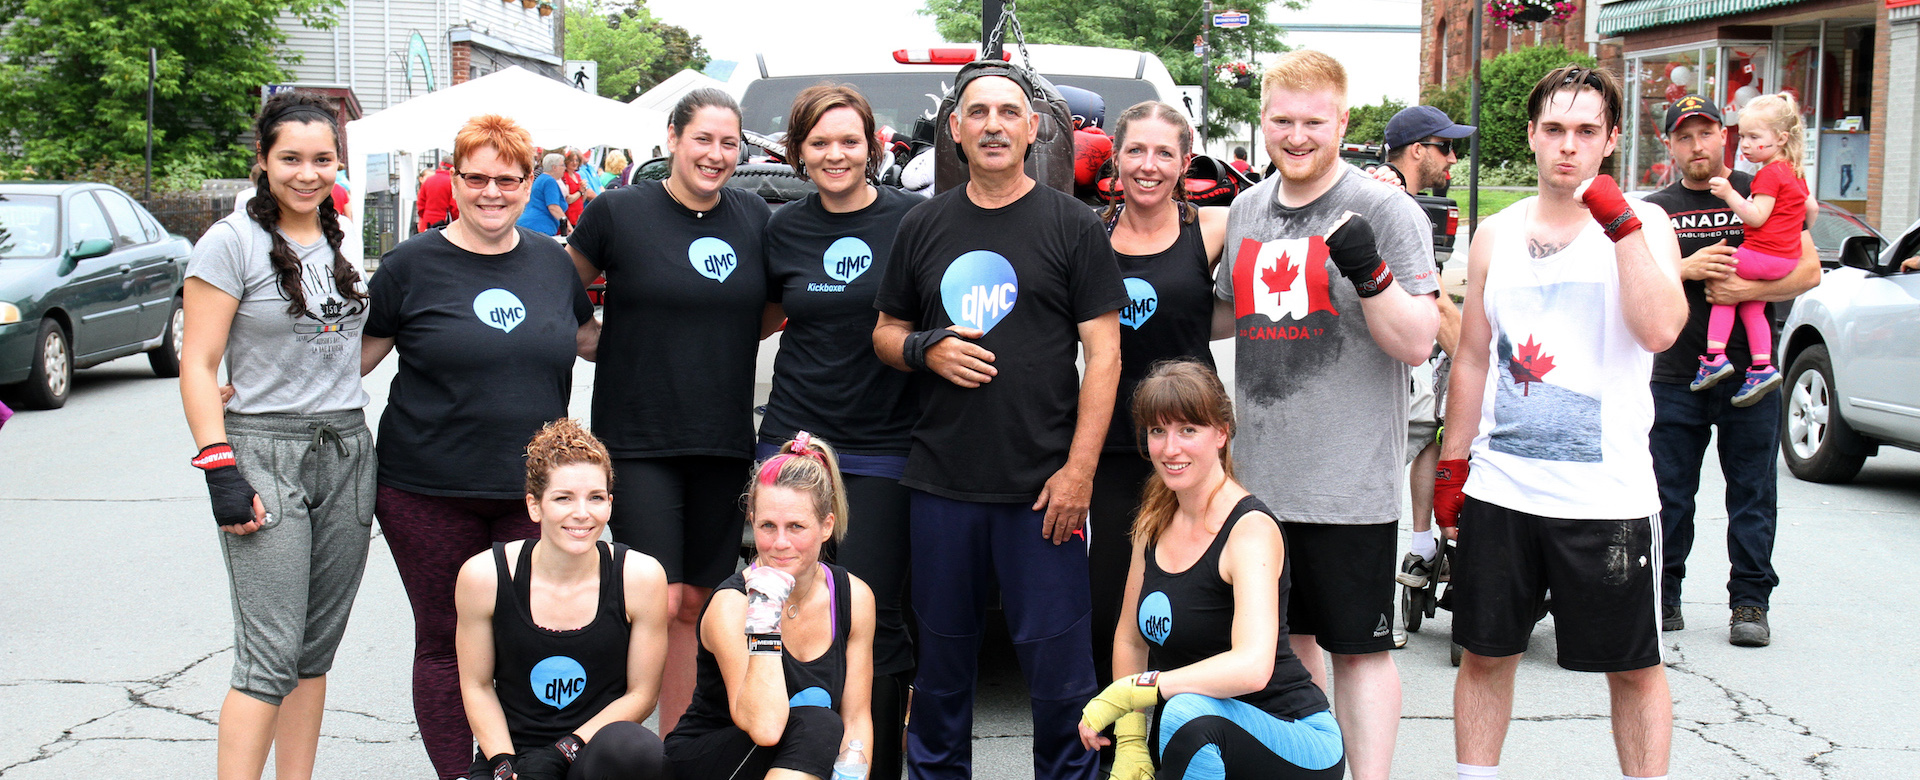
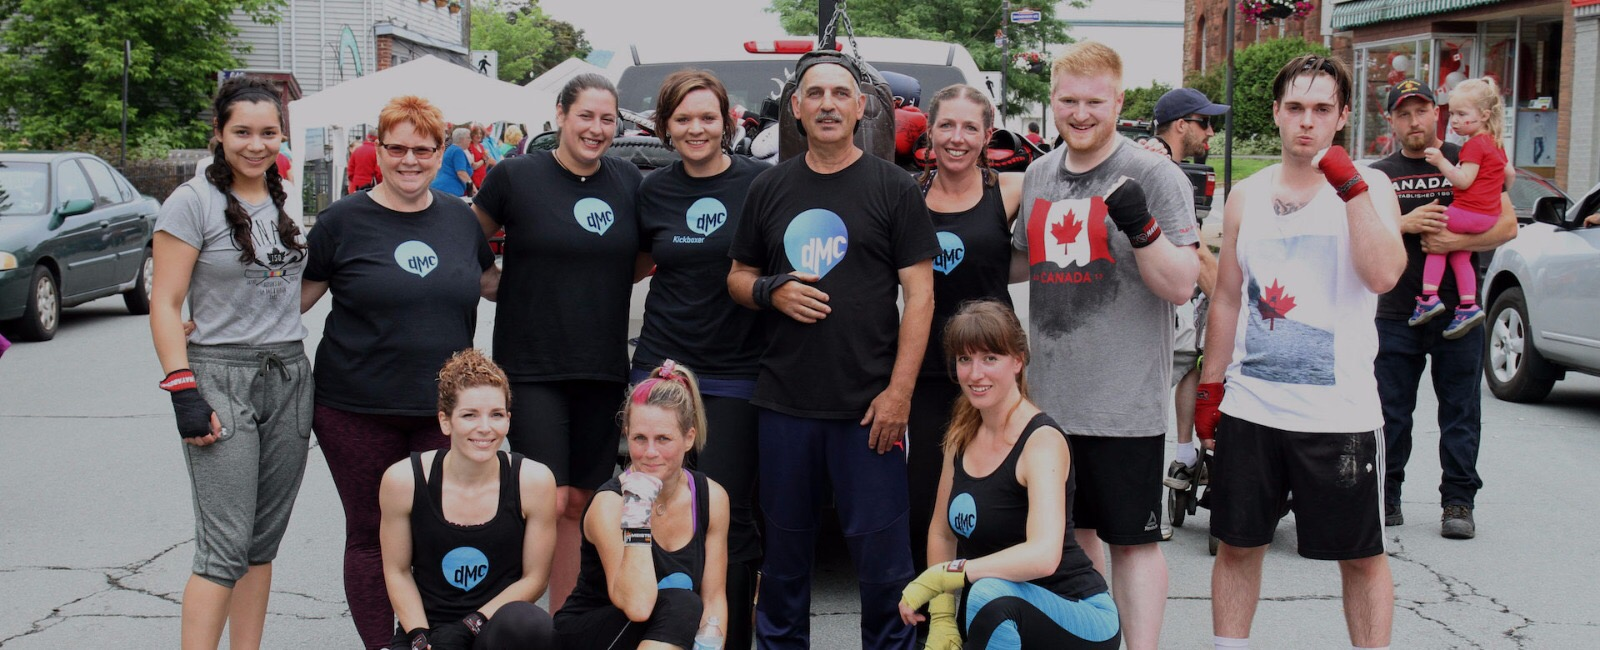
Adding slider images reduced and with filter. Doing some edits to slider slides and adding a new title for Jake's testimonial

diff --git a/index.html b/index.html
@@ -71,23 +71,22 @@
 		<!-- Background Area Start -->
 		<div class="slider-area">	
 		    <div class="slider-wrapper">
-		        <div class="single-slide" style="background-image: url('img/slider/kids.jpg');">
+                <div class="single-slide" style="background-image: url('img/slider/coverphoto2.jpg');">
                     <div class="slider-content">
                         <div class="container">
                             <div class="row">
                                 <div class="col-lg-7 col-md-7 col-sm-12 col-md-12">
                                     <div class="text-content-wrapper">
                                         <div class="text-content text-left">
-                                            <h5>Kid's classes</h5>
-                                            <h1>Building <span>Strength, Balance & Confidence</span></h1>
-                                            <a class="banner-btn" href="#classes" data-text="read more"><span>read more</span></a>
+                                            <h1><span>Kicking and punching is just plain fun!<span></h1>
+                                            <!-- <a class="banner-btn" href="#classes" data-text="go to gallery"><span>Check out our gallery</span></a> -->
                                         </div>
                                     </div>
                                 </div>
                             </div>
                         </div>
                     </div>
-		        </div>
+                </div>
 		        <div class="single-slide" style="background-image: url('img/slider/stressreliever.jpg');">
                     <div class="slider-content">
                         <div class="container">
@@ -104,15 +103,16 @@
                         </div>
                     </div>
 		        </div>
-                <div class="single-slide" style="background-image: url('img/slider/coverphoto2.jpg');">
+                <div class="single-slide" style="background-image: url('img/slider/kids.jpg');">
                     <div class="slider-content">
                         <div class="container">
                             <div class="row">
                                 <div class="col-lg-7 col-md-7 col-sm-12 col-md-12">
                                     <div class="text-content-wrapper">
                                         <div class="text-content text-left">
-                                            <h1><span>Kicking and punching is just plain fun!<span></h1>
-                                            <a class="banner-btn" href="#classes" data-text="go to gallery"><span>Check out our gallery</span></a>
+                                            <h5>Kid's classes</h5>
+                                            <h1>Building <span>Strength, Balance & Confidence</span></h1>
+                                            <a class="banner-btn" href="#classes" data-text="read more"><span>read more</span></a>
                                         </div>
                                     </div>
                                 </div>
@@ -120,6 +120,7 @@
                         </div>
                     </div>
                 </div>
+                
 		    </div>
             <a name="about"></a>
 		</div>
@@ -754,10 +755,10 @@
                                     <div class="single-testimonial">
                                         <!-- <i class="zmdi zmdi-quote"></i> -->
                                         <img src="img/testimonials/jake.png" alt="testimonial writer">
-                                        <h2>Best work out!</h2>
+                                        <h2>My only regret is not starting earlier</h2>
                                         <br />
                                         <p>Not only does Dave have the hardest training sessions I have ever gone through, he also tells me to enjoy myself more than all of my past coaches combined.</p>
-                                        <p>Jake Croft | boxer</p>
+                                        <p>Jake Croft | student of human resources management | boxer</p>
                                     </div>    
                                 </div> 
                                 <div class=" item col-xs-12">

diff --git a/css/custom/custom.css b/css/custom/custom.css
@@ -27,13 +27,13 @@
 *************************/
 .banner-btn {
 	border: 1px solid #2A6AB2;
-	color: #2A6AB2;
+	color: #fff;
 }
 .banner-btn:hover {
 	background: rgba(42, 106, 178, 0.5);
 	color: #fff;
 }
-.slider-content h1 span{color: #2A6AB2}
+.slider-content h1 span{color: #fff}
 .owl-theme .owl-nav div {
     background: rgba(42, 106, 178, 0.4);
     color: #2A6AB2;
